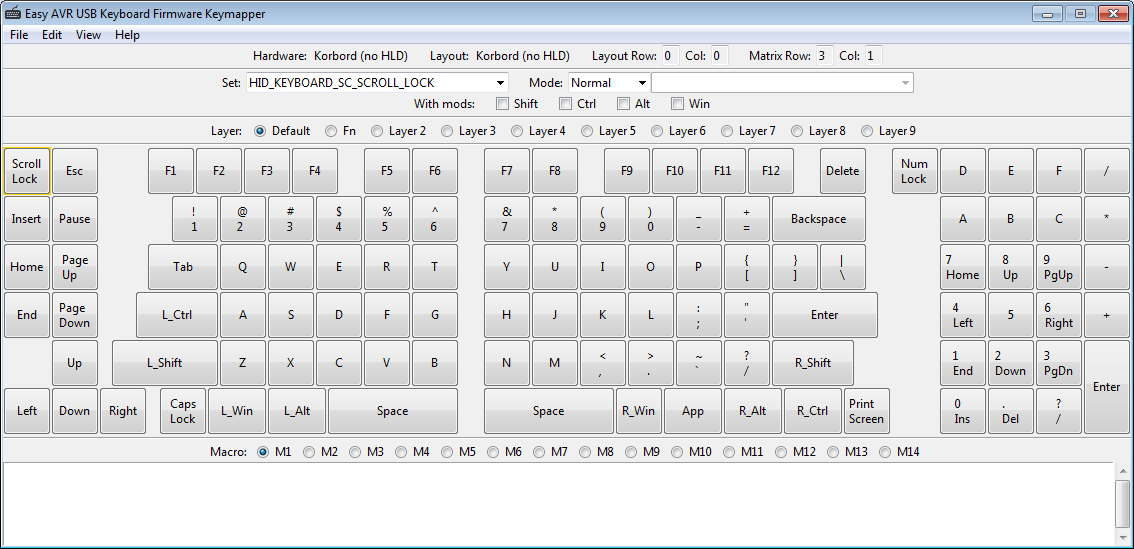
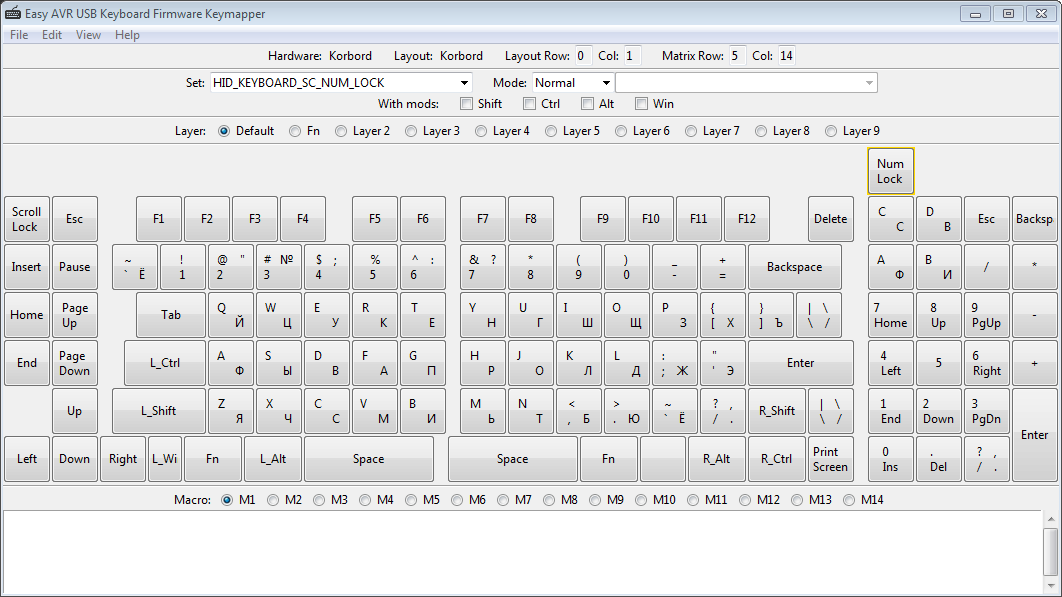
.

diff --git a/firmware/ReadMe.md b/firmware/ReadMe.md
@@ -1,12 +1,8 @@
 EasyAVR прошивка и графический конфигурфтор клавиш.
 
-Сделана прошивка для нумпада и правой стороны.
-
-![](https://raw.githubusercontent.com/74ls00/GameKB/master/firmware/EasyAVR/eavrbk.png)
-
-Нарисована полная версия, но использовать её нельзя.
-
 Easy AVR USB Keyboard Firmware Keymapper
+
+Полная версия клавиатуры.
   
 ![](https://raw.githubusercontent.com/74ls00/GameKB/master/firmware/EasyAVR/eavrkfk.png)
 ------------------------------------------------------------------------------------
